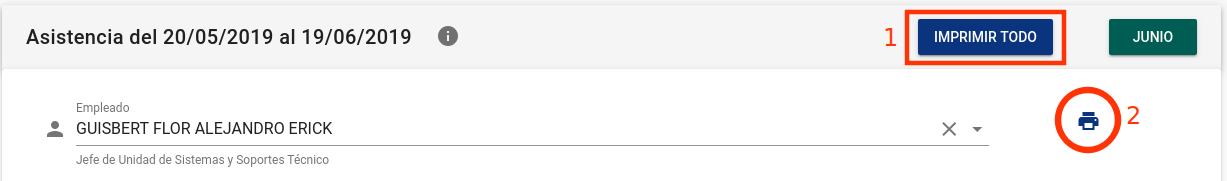
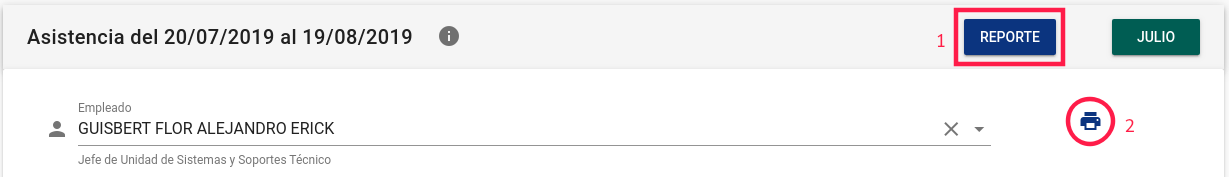
Added attendance date picker to print report, closed #392, fixed #393

diff --git a/resources/assets/js/components/attendance/AttendancePrint.vue b/resources/assets/js/components/attendance/AttendancePrint.vue
@@ -4,13 +4,17 @@
     <v-card>
       <v-toolbar dark color="secondary">
         <v-toolbar-title class="white--text">Generar reporte para {{ type.name }} de {{ $moment(from).format('L') }} a {{ $moment(to).format('L') }}</v-toolbar-title>
+        <v-spacer></v-spacer>
+        <v-btn icon dark @click.native="close" v-if="!loading">
+          <v-icon>close</v-icon>
+        </v-btn>
       </v-toolbar>
       <Loading v-if="loading"/>
       <div v-else>
         <v-card-text>
           <v-container grid-list-md text-xs-center fluid>
             <v-layout row wrap>
-              <v-flex xs12>
+              <v-flex xs2>
                 <v-select
                   v-model="type"
                   :items="types"
@@ -22,26 +26,30 @@
                   single-line
                 ></v-select>
               </v-flex>
-              <v-flex xs6>
+              <v-flex xs5>
                 <div class="subheading font-weight-light">Desde:</div>
                 <v-date-picker
                   v-model="from"
                   no-title
+                  :show-current="false"
                   :landscape="false"
                   locale="es-BO"
                   first-day-of-week="1"
                   :max="to"
+                  color="green darken-2"
                 ></v-date-picker>
               </v-flex>
-              <v-flex xs6>
+              <v-flex xs5>
                 <div class="subheading font-weight-light">Hasta:</div>
                 <v-date-picker
                   v-model="to"
                   no-title
+                  :show-current="false"
                   :landscape="false"
                   locale="es-BO"
                   first-day-of-week="1"
                   :min="from"
+                  color="orange accent-4"
                 ></v-date-picker>
               </v-flex>
             </v-layout>
@@ -95,7 +103,7 @@ export default {
         this.loading = true
         let res = await axios({
           method: "GET",
-          url: `attendance/print/${this.type}`,
+          url: `attendance/print/${this.type.value}`,
           responseType: "arraybuffer",
           params: {
             from: this.from,

diff --git a/resources/assets/js/components/attendance/AttendanceIndex.vue b/resources/assets/js/components/attendance/AttendanceIndex.vue
@@ -44,7 +44,7 @@
                 ></v-autocomplete>
               </v-flex>
               <v-flex xs2>
-                <template class="justify-center layout">
+                <template class="justify-center layout" v-if="selectedEmployee">
                   <v-tooltip top>
                     <v-btn medium slot="activator" flat icon color="info" @click="getChecks(selectedEmployee, true)">
                       <v-icon>print</v-icon>
@@ -238,7 +238,6 @@ export default {
         this.employees.forEach(e => {
           e.fullName = `${e.last_name || ''} ${e.mothers_last_name || ''} ${e.first_name || ''} ${e.second_name || ''}`
         });
-        this.selectedEmployee = this.employees.find(o => o.id == this.$store.getters.id)
         this.loading = false
       } catch (e) {
         console.log(e)

diff --git a/resources/assets/js/components/attendance/AttendanceAdd.vue b/resources/assets/js/components/attendance/AttendanceAdd.vue
@@ -7,6 +7,10 @@
     <v-card>
       <v-toolbar dark color="secondary">
         <v-toolbar-title class="white--text">Adicionar registro</v-toolbar-title>
+        <v-spacer></v-spacer>
+        <v-btn icon dark @click.native="close">
+          <v-icon>close</v-icon>
+        </v-btn>
       </v-toolbar>
       <v-card-text>
         <v-container grid-list-md text-xs-center fluid>
@@ -48,6 +52,15 @@ export default {
       check: {
         date: this.$store.getters.dateNow,
         time: null
+      }
+    }
+  },
+  watch: {
+    'check.time': function(newVal, oldVal) {
+      if (newVal != oldVal && newVal != null) {
+        if (newVal.split(':').length < 3) {
+          this.check.time = `${newVal}:${(Math.random() * 59 | 1).toString().padStart(2, '0')}`
+        }
       }
     }
   },

diff --git a/resources/assets/js/components/dashboard/Dashboard.vue b/resources/assets/js/components/dashboard/Dashboard.vue
@@ -5,7 +5,7 @@
         <v-layout row wrap>
           <v-flex md12 lg8>
             <v-layout row wrap>
-              <v-flex xs12 sm6 v-if="$store.getters.user != 'admin'">
+              <v-flex xs12 sm6>
                 <v-card color="light-blue darken-1" dark :to="{ name: 'attendanceIndex' }" style="cursor: pointer" class="card-box">
                   <v-layout row wrap>
                     <v-flex xs4 class="text-xs-center" mt-4>

diff --git a/app/Http/Controllers/Api/V1/EmployeeController.php b/app/Http/Controllers/Api/V1/EmployeeController.php
@@ -45,6 +45,7 @@ class EmployeeController extends Controller
       } elseif ($employee->consultant === false) {
         $employee->position = $employee->last_contract()->position->name;
       }
+      unset($employee['contracts']);
     }
 
     return $employees;

diff --git a/docs/MANUAL.md b/docs/MANUAL.md
@@ -243,8 +243,10 @@ Los funcionarios con rol de Recursos Humanos pueden además seleccionar cualquie
 
 ![IMAGE](./img/attendance_select_employee.png)
 
-- **1)** Imprime los registros de asistencia del mes de todo el personal
+- **1)** Imprime los registros de asistencia del personal eventual o consultor de acuerdo a la selección de un rango de fechas
 - **2)** Imprime los registros de asistencia del mes solo del funcionario seleccionado
+
+![IMAGE](./img/attendance_print_dialog.png)
 
 ![IMAGE](./img/attendance_print.png)
 

diff --git a/UPDATE.md b/UPDATE.md
@@ -2,6 +2,12 @@
 
 ---
 
+## From [4.5.0](https://github.com/MUTUAL-DE-SERVICIOS-AL-POLICIA/PVA-RRHH/tree/4.5.0) to [4.6.0](https://github.com/MUTUAL-DE-SERVICIOS-AL-POLICIA/PVA-RRHH/tree/4.6.0)
+
+```sh
+composer install --prefer-dist --no-dev
+```
+
 ## From [4.4.0](https://github.com/MUTUAL-DE-SERVICIOS-AL-POLICIA/PVA-RRHH/tree/4.4.0) to [4.5.0](https://github.com/MUTUAL-DE-SERVICIOS-AL-POLICIA/PVA-RRHH/tree/4.5.0)
 
 ```sh

diff --git a/CHANGELOG.md b/CHANGELOG.md
@@ -2,6 +2,17 @@
 
 ---
 
+## [4.6.0](https://github.com/MUTUAL-DE-SERVICIOS-AL-POLICIA/PVA-RRHH/tree/4.6.0) - 2019-07-23
+
+### Added
+
+* Date range to print attendance report
+* Eventual or Consultant select to print attendance report
+
+### Fixed
+
+* Consultant attendance dates
+
 ## [4.5.0](https://github.com/MUTUAL-DE-SERVICIOS-AL-POLICIA/PVA-RRHH/tree/4.5.0) - 2019-07-03
 
 ### Added

diff --git a/INSTALL.md b/INSTALL.md
@@ -39,7 +39,7 @@ git checkout $latestVersion
 ```sh
 composer run-script post-root-package-install
 composer install
-yarn
+yarn install
 ```
 
 * Edit `.env` file with database credentials and established manteinance modes
@@ -48,7 +48,6 @@ yarn
 
 ```sh
 composer run-script post-create-project-cmd
-php artisan jwt:secret
 yarn prod
 composer run-script post-autoload-dump
 ```
